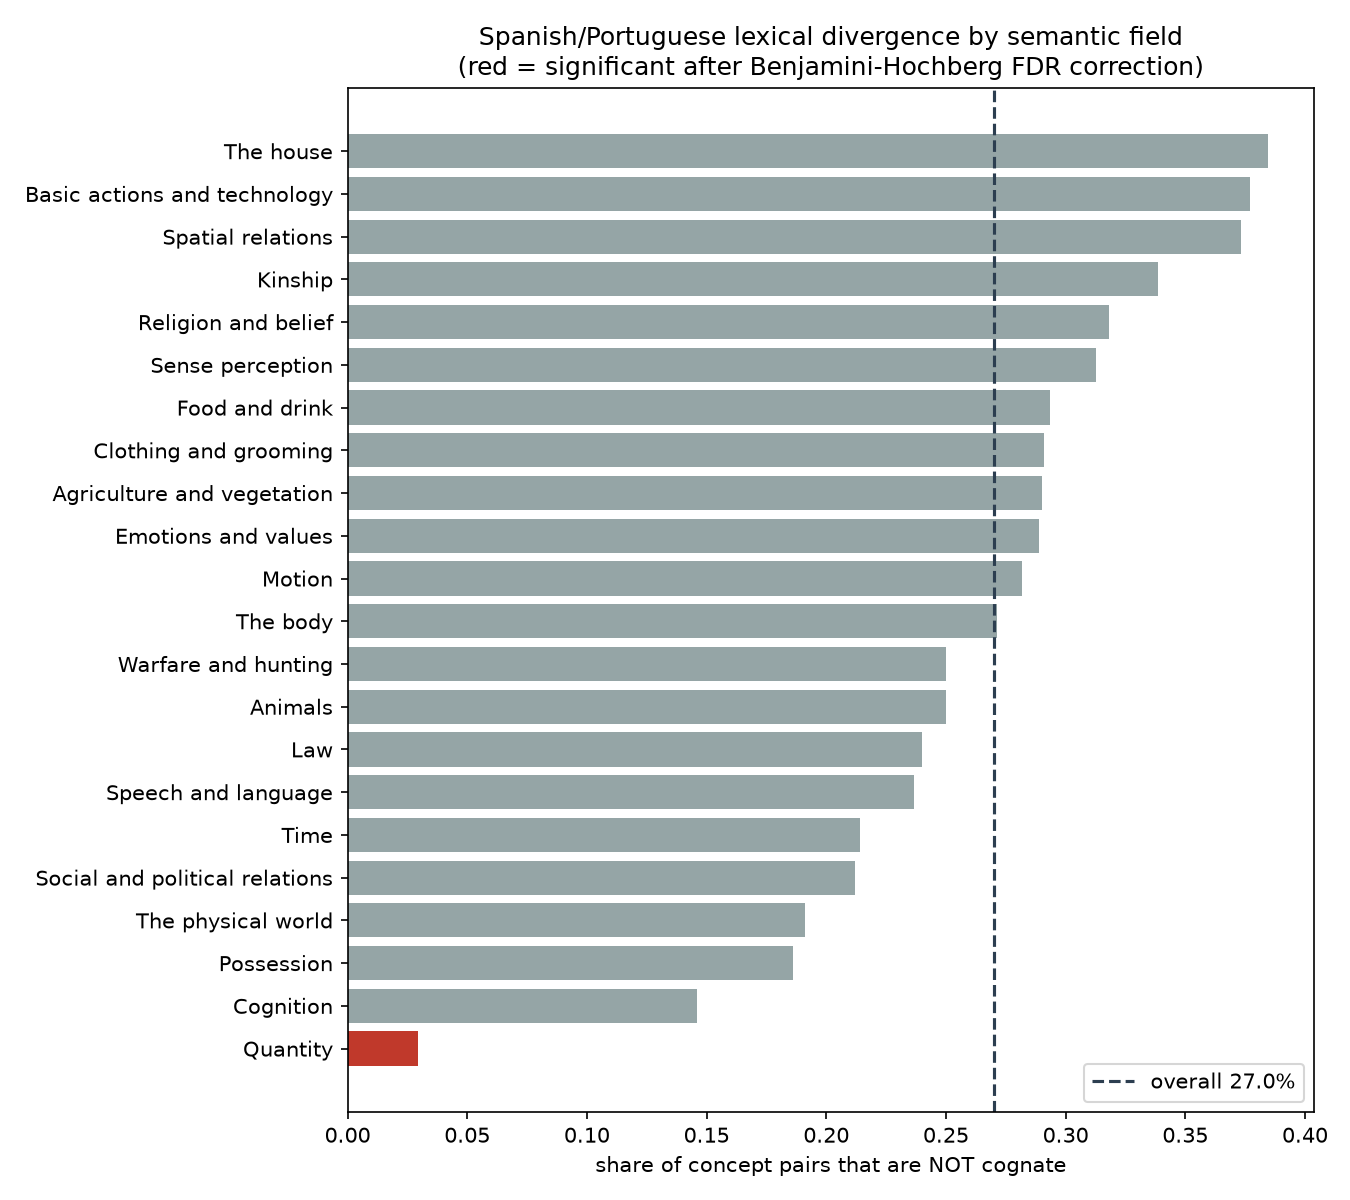
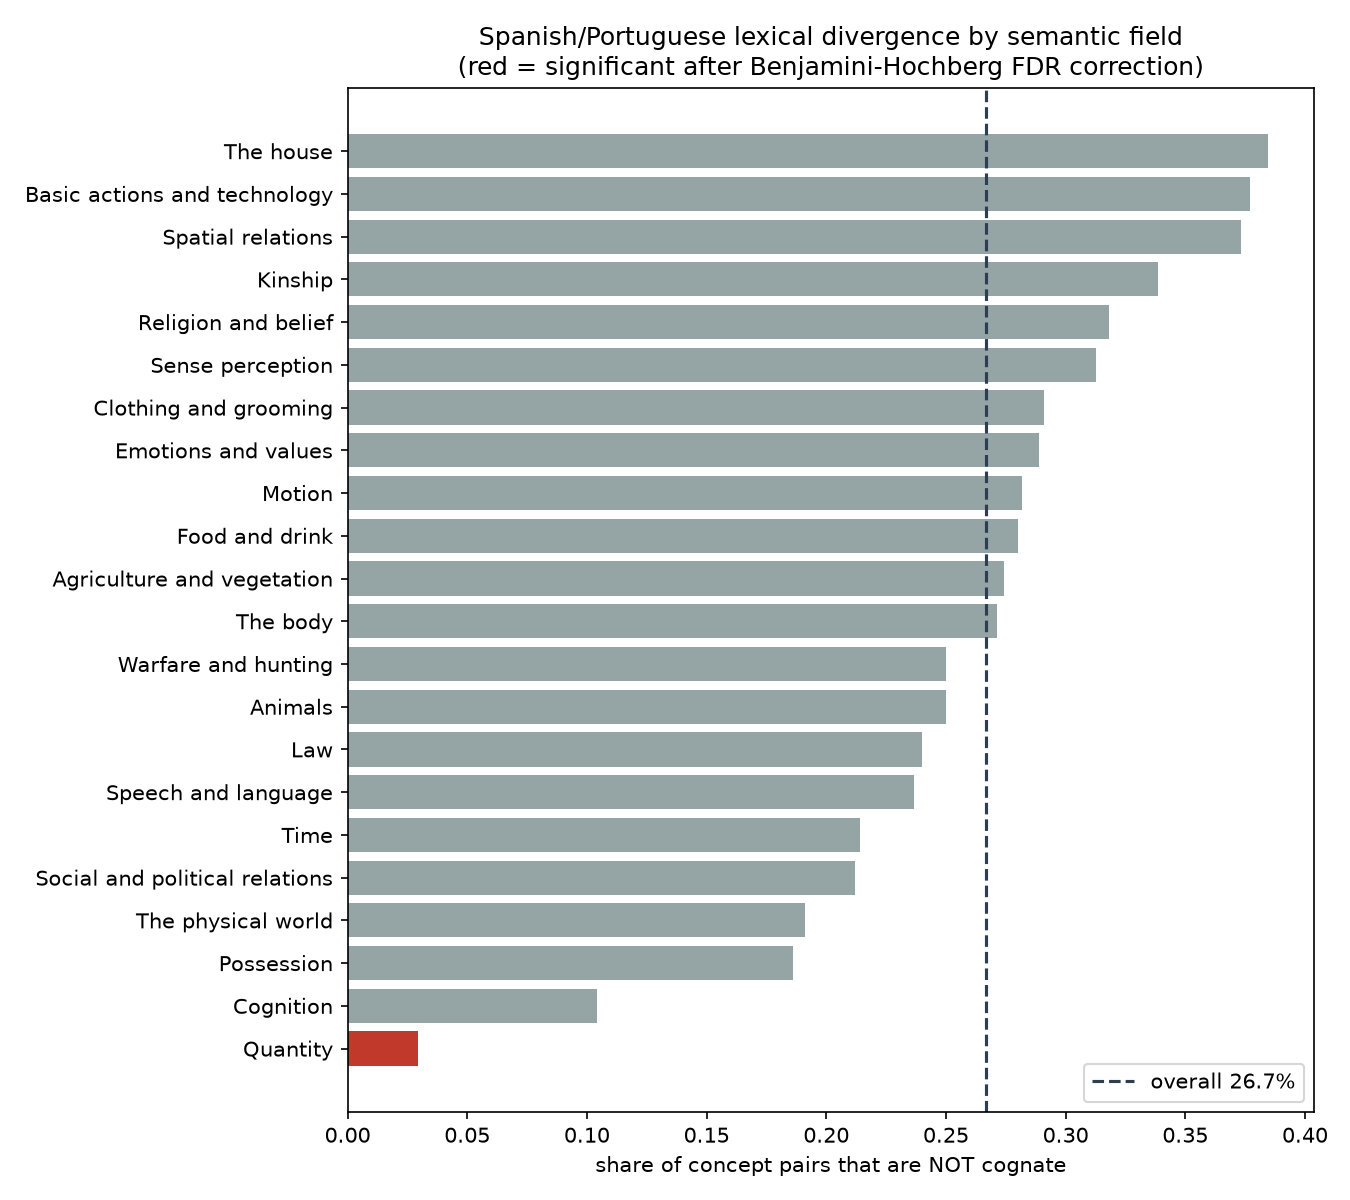
Fix qu/gu digraph bug in normaliser, dedupe chains, drop dead branch
Review of the diff found three defects:

1. phonology: the Spanish diphthong rule ue->o fired inside the <qu>/<gu>
   digraphs, where the <u> is silent. "queso" normalised to "qoso" while
   "queijo" gave "keiJo", scoring an identical inherited word at 0.20 and
   counting it as a divergence. Guarded with a negative lookbehind; also
   removed a dead no-op rule. Cognate rate 73.0% -> 73.3%.

2. etymology: ancestor recursion restated steps already on the chain
   ("cao" gave roa-opt > la > roa-opt > la > ine-pro > la). Deduped while
   preserving order. Does not change the proximate donor.

3. buckets: a ternary inside the both-borrowed branch was unreachable,
   since spanish_native is always False there.

Adds 9 regression tests covering the qu/gu digraph and confirming the
diphthong rule still fires where it legitimately applies. 53 tests pass.

diff --git a/tests/test_phonology.py b/tests/test_phonology.py
@@ -65,3 +65,30 @@ def test_reflexive_lemma_fallback():
     assert "arrodillar" in client._lemma_candidates("arrodillarse", "es")
     assert "zambullir" in client._lemma_candidates("zambullirse", "es")
     assert client._lemma_candidates("casa", "es") == ["casa"]
+
+
+# Regression: the <u> in <qu>/<gu> is silent, not a diphthong. Before the
+# guard, "queso" -> "qoso" while "queijo" -> "keiJo", scoring an identical
+# inherited word at 0.20 and counting it as a divergence.
+QU_GU_PAIRS = [
+    ("que", "que"), ("queso", "queijo"), ("querer", "querer"),
+    ("quemar", "queimar"), ("pequeño", "pequeno"), ("guerra", "guerra"),
+    ("quien", "quem"), ("quince", "quinze"),
+]
+
+
+@pytest.mark.parametrize("spanish,portuguese", QU_GU_PAIRS)
+def test_qu_gu_digraph_not_treated_as_diphthong(spanish, portuguese):
+    score = similarity(normalise(spanish, "es"), normalise(portuguese, "pt"))
+    assert score >= 0.43, (
+        f"{spanish}/{portuguese} -> {normalise(spanish, 'es')}/"
+        f"{normalise(portuguese, 'pt')} scored {score:.2f}"
+    )
+
+
+def test_genuine_diphthongs_still_collapse():
+    """The guard must not disable the rule where it legitimately applies."""
+    for spanish, portuguese in [("fuego", "fogo"), ("bueno", "bom"),
+                                ("puerta", "porta"), ("cuenta", "conta"),
+                                ("juego", "jogo"), ("muerte", "morte")]:
+        assert similarity(normalise(spanish, "es"), normalise(portuguese, "pt")) >= 0.7

diff --git a/src/spcomp/phonology.py b/src/spcomp/phonology.py
@@ -36,7 +36,6 @@ _SHARED_RULES: list[tuple[str, str]] = [
     (r"qu(?=[ei])", "k"),
     (r"gu(?=[ei])", "g"),
     (r"c(?=[ei])", "s"),      # ceviche/cebola -> s
-    (r"ch(?=.)", "ch"),        # placeholder, real handling is per-language
     (r"c", "k"),
     (r"ç", "s"),
     (r"z", "s"),
@@ -76,8 +75,14 @@ _ES_RULES: list[tuple[str, str]] = [
     # Latin -NN-/-NI- -> Spanish <ñ>, Portuguese <nh>.
     (r"ñ", "N"),
     # Diphthongisation of Latin short E and O -- Spanish only.
+    #
+    # The <u> of the digraphs <qu>/<gu> is silent, not part of a diphthong, so
+    # these rules must not fire there. Without the guard, "queso" became "qoso"
+    # while Portuguese "queijo" became "keiJo", and an identical inherited word
+    # was scored 0.20 and counted as a divergence. Shared rules reduce qu/gu
+    # afterwards, which is why the guard is needed here rather than reordering.
     (r"ie", "e"),
-    (r"ue", "o"),
+    (r"(?<![qg])ue", "o"),
     # Suffix correspondences
     (r"sion$", "Con"),
     (r"kion$", "Con"),

diff --git a/src/spcomp/etymology.py b/src/spcomp/etymology.py
@@ -310,7 +310,13 @@ class WiktionaryClient:
             extension = parse_etymology(text, source_lang)
             if not extension:
                 break
-            result.chain.extend(extension)
+            # An ancestor's page often restates steps already on the chain
+            # (`cao` yielded roa-opt > la > roa-opt > la > ine-pro > la).
+            # Duplicates do not change the proximate donor but make the
+            # recorded chain misleading, so drop repeats while keeping order.
+            for step in extension:
+                if step not in result.chain:
+                    result.chain.append(step)
             result.found = True
 
         return result

diff --git a/src/spcomp/buckets.py b/src/spcomp/buckets.py
@@ -93,7 +93,9 @@ def bucket(spanish_category: str, portuguese_category: str) -> str:
     if spanish_native and portuguese_native:
         return "A_DIFFERENT_LATIN_ETYMON"
     if not spanish_native and not portuguese_native:
+        # Both borrowed. Same donor family means parallel borrowing of the same
+        # cultural item; different families mean genuinely divergent contact.
         if spanish_category == portuguese_category:
-            return "A_DIFFERENT_LATIN_ETYMON" if spanish_native else "B_SAME_DONOR_FAMILY"
+            return "B_SAME_DONOR_FAMILY"
         return "B_DIVERGENT_LOAN_ROUTE"
     return "C_ONE_SIDED_BORROWING"

diff --git a/README.md b/README.md
@@ -10,18 +10,18 @@ ground truth rather than inference from clusters.
 | | |
 |---|---|
 | Concept pairs analysed | **1,214** (IDS core vocabulary) |
-| Cognate | **886 (73.0%)** |
-| Non-cognate | **328 (27.0%)** |
+| Cognate | **890 (73.3%)** |
+| Non-cognate | **324 (26.7%)** |
 | Etymology resolved both sides | **86.1%** |
 
 ### 1. Divergence is mostly *internal*, not contact-driven
 
 | Mechanism | Pairs | Share |
 |---|---|---|
-| **A — different Latin etymon** | 167 | **50.9%** |
-| C — one-sided borrowing | 65 | 19.8% |
+| **A — different Latin etymon** | 166 | **51.2%** |
+| C — one-sided borrowing | 63 | 19.4% |
 | B — divergent loan route | 15 | 4.6% |
-| Unresolved | 81 | 24.7% |
+| Unresolved | 80 | 24.7% |
 
 Over half of all divergence is two languages inheriting from Latin and simply
 picking **different Latin words** — `ventana` (< VENTUM, "wind") vs `janela`
@@ -35,19 +35,20 @@ field is significant — and in the opposite direction**:
 
 | Field | n | non-cognate rate | lift | p | p-adj |
 |---|---|---|---|---|---|
-| **Quantity** | 34 | **2.9%** | 0.11 | 0.0006 | **0.0123** ✓ |
-| The house | 39 | 38.5% | 1.42 | 0.14 | 0.58 |
-| Basic actions | 69 | 37.7% | 1.39 | 0.050 | 0.36 |
-| Spatial relations | 67 | 37.3% | 1.38 | 0.065 | 0.36 |
-| Cognition | 48 | 14.6% | 0.54 | 0.048 | 0.36 |
+| **Quantity** | 34 | **2.9%** | 0.11 | 0.0005 | **0.0121** ✓ |
+| The house | 39 | 38.5% | 1.44 | 0.099 | 0.44 |
+| Basic actions | 69 | 37.7% | 1.41 | 0.049 | 0.27 |
+| Spatial relations | 67 | 37.3% | 1.40 | 0.047 | 0.27 |
+| Cognition | 48 | 10.4% | 0.39 | 0.0073 | 0.081 |
 
 Numerals are almost perfectly conserved (1 divergent pair in 34). Nothing is
 significantly *more* divergent than baseline.
 
 **This is why the FDR correction mattered.** Raw p-values would have declared
-"Basic actions" (p = 0.0499) and "Cognition" (p = 0.0475) significant. With 22
-simultaneous tests, those are exactly the false positives the correction is
-designed to kill.
+three fields significant — Cognition (p = 0.0073), Spatial relations
+(p = 0.047) and Basic actions (p = 0.049). With 22 simultaneous tests those
+are exactly the false positives the correction is designed to kill, and none
+survives it.
 
 ### 3. The Arabic layer is largely *shared*, not divergent
 
@@ -97,7 +98,7 @@ fields, which is a better label set than anything inferable from a word list.
 **Raw edit distance is not enough.** Regular sound change makes true cognates
 look unrelated. Measured on the calibration set, sound normalisation raises AUC
 from **0.9855 → 0.9973**, and at a 0.6 threshold cuts misclassified cognates
-from **25% → 7%**:
+from **25.0% → 6.6%** (at 0.7, from **60.5% → 14.5%**):
 
 | Spanish | Portuguese | raw | normalised |
 |---|---|---|---|
@@ -120,7 +121,7 @@ python scripts/run_all.py
 | `03_fetch_etymology.py` | Resolves donor language per word (cached) |
 | `04_analyze.py` | Fisher + BH-FDR enrichment, mechanism attribution |
 
-`pytest tests/ -q` → 44 tests. See [docs/METHODOLOGY.md](docs/METHODOLOGY.md).
+`pytest tests/ -q` → 53 tests. See [docs/METHODOLOGY.md](docs/METHODOLOGY.md).
 
 ## Limitations
 
@@ -133,6 +134,10 @@ python scripts/run_all.py
 - **IDS gives one primary translation per concept**, so synonyms that would
   reveal a shared cognate are missed; divergence is somewhat over-counted.
 - **96 multiword pairs excluded** from scoring, flagged in `pairs.csv`.
+- **The `qu`/`gu` normalisation bug** (fixed, with regression tests) had been
+  counting identical words like `queso`/`queijo` as divergent. It moved the
+  cognate rate 73.0% -> 73.3%. Similar rule-interaction bugs may remain; the
+  gold-set calibration is the guard against them.
 - Core vocabulary only. A frequency-weighted or full-dictionary tier would
   likely show *more* contact-driven divergence, since borrowings concentrate in
   culturally specific, lower-frequency vocabulary.
